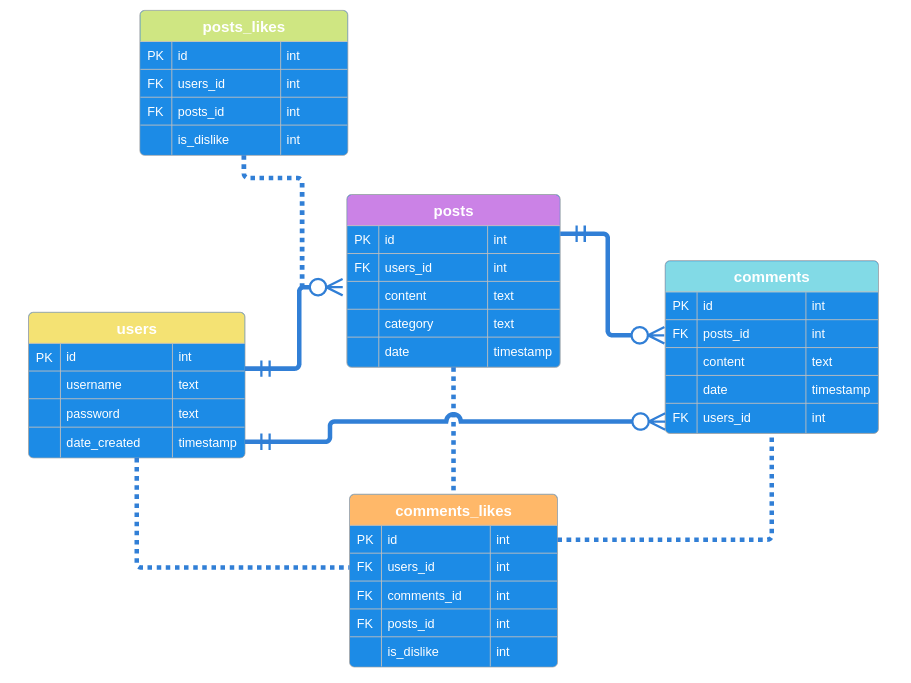
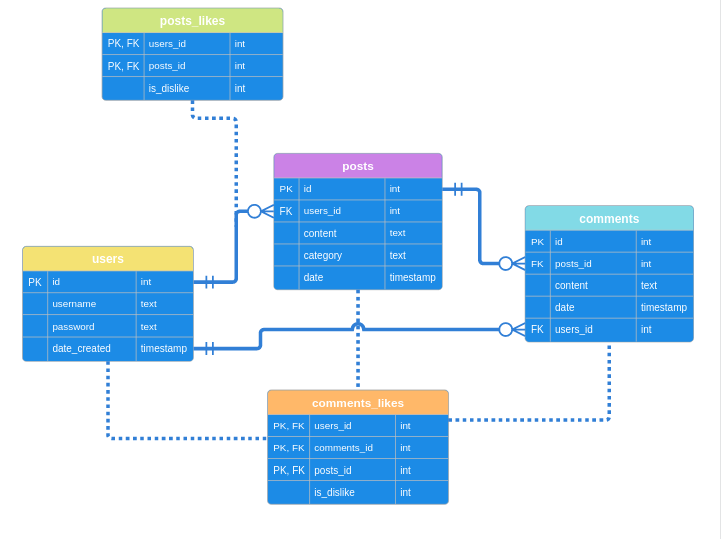
Swapped to composite keys from primary keys for likes databases

diff --git a/main.go b/main.go
@@ -218,14 +218,11 @@ func initializeSQLiteTables(db *sql.DB) {
 
 	// Initializing table for comments_likes if it doesn't exist yet
 	_, err = db.Exec(`CREATE TABLE IF NOT EXISTS comments_likes (
-        id INTEGER PRIMARY KEY,
 		users_id INTEGER NOT NULL,
 		comments_id INTEGER NOT NULL,
         posts_id INTEGER NOT NULL,
 		is_dislike INTEGER NOT NULL,
-		FOREIGN KEY (users_id) REFERENCES users (id),
-		FOREIGN KEY (posts_id) REFERENCES posts (id),
-		FOREIGN KEY (comments_id) REFERENCES comments (id)
+		PRIMARY KEY (users_id, comments_id, posts_id)
     );`)
 	if err != nil {
 		log.Fatal(err)
@@ -233,12 +230,10 @@ func initializeSQLiteTables(db *sql.DB) {
 
 	// Initializing table for posts_likes if it doesn't exist yet
 	_, err = db.Exec(`CREATE TABLE IF NOT EXISTS posts_likes (
-        id INTEGER PRIMARY KEY,
 		users_id INTEGER NOT NULL,
-		comments_id INTEGER NOT NULL,
+		posts_id INTEGER NOT NULL,
 		is_dislike INTEGER NOT NULL,
-		FOREIGN KEY (users_id) REFERENCES users (id),
-		FOREIGN KEY (comments_id) REFERENCES comments (id)
+		PRIMARY KEY (users_id, posts_id)
     );`)
 	if err != nil {
 		log.Fatal(err)
